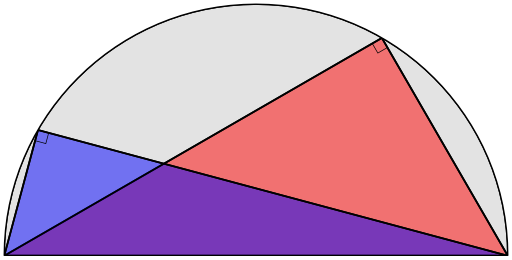
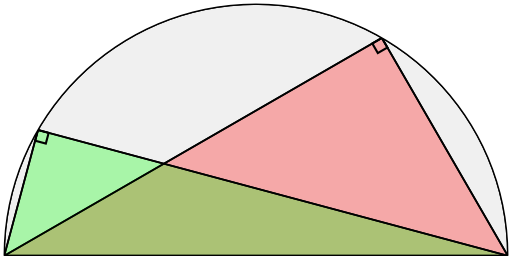
adjusted colors

diff --git a/tikz/triangle-thales-circle/triangle-thales-circle.tex b/tikz/triangle-thales-circle/triangle-thales-circle.tex
@@ -10,17 +10,18 @@
     \tkzDefPoint(60:5){X}
     \tkzDefPoint(150:5){Y}
 
-    \tkzDrawArc[color=black, thick, fill=gray!20](O,B)(A)
+    \tkzDrawArc[color=black, thick, fill=gray!10](O,B)(A)
 
     % Avoid too long edges of polygon
     \tkzClipPolygon(A,B,M,N)
     \tkzClipCircle(O,B)
 
-    \tkzDrawPolygon[fill=red,fill opacity=0.5](A,B,X)
-    \tkzMarkRightAngle(A,X,B)
+    % Draw polygons and mark right angle
+    \tkzDrawPolygon[fill=red,fill opacity=0.3](A,B,X)
+    \tkzMarkRightAngle[very thick](A,X,B)
 
-    \tkzDrawPolygon[fill=blue,fill opacity=0.5](A,B,Y)
-    \tkzMarkRightAngle(A,Y,B)
+    \tkzDrawPolygon[fill=green,fill opacity=0.3](A,B,Y)
+    \tkzMarkRightAngle[very thick](A,Y,B)
 
     % lines should not colored
     \tkzDrawPolygon(A,B,X)
